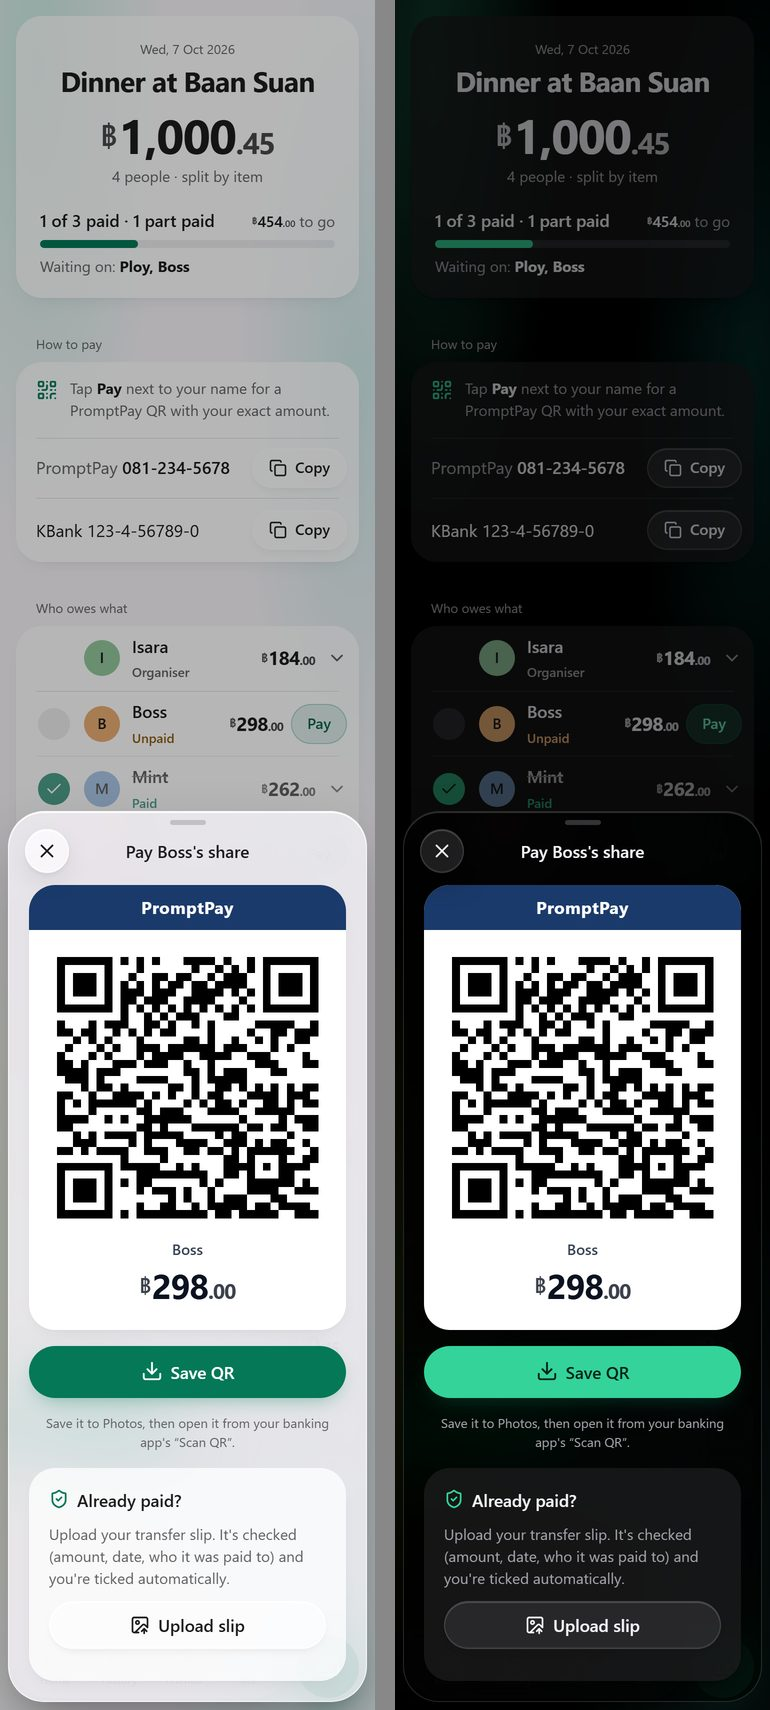
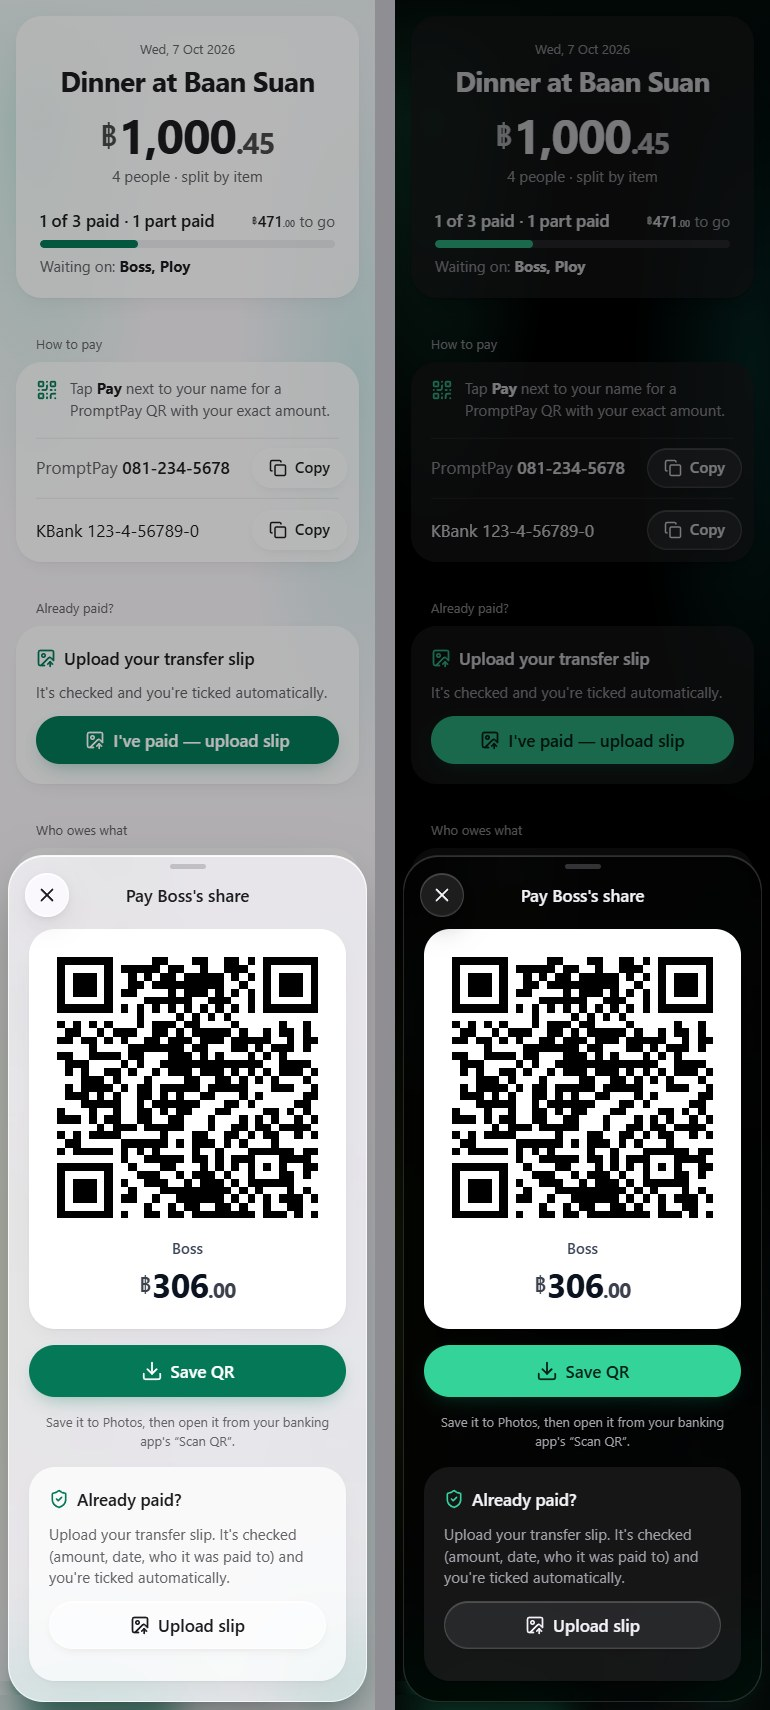
Docs: README and screenshots for the latest changes
- Logo and link-preview card in the README
- Leftover satang to friends, bill date, slip upload on the page, big bill
  names, rename reaching every bill
- New screenshots: shared bill, Pay sheet, big bill (light | dark)

diff --git a/README.md b/README.md
@@ -1,3 +1,5 @@
+<img src="docs/logo.png" alt="" width="72" align="right">
+
 # Bill Splitter
 
 Split a restaurant bill with friends in Thailand: scan the receipt, tick who had what, share one link, and see who has paid. PromptPay QR codes, transfer-slip checking, "big bills" for a whole night out, and an iOS-style "Liquid Glass" look in light and dark.
@@ -9,7 +11,9 @@ Split a restaurant bill with friends in Thailand: scan the receipt, tick who had
   <img src="docs/screenshots/9-shared.jpg" alt="Shared bill" width="380">
 </p>
 
-More screenshots (light | dark) in [`docs/screenshots`](docs/screenshots).
+More screenshots (light | dark) in [`docs/screenshots`](docs/screenshots). The link preview friends see in chat:
+
+<img src="docs/screenshots/share-preview.png" alt="Link preview card" width="600">
 
 ## Features
 
@@ -17,21 +21,22 @@ More screenshots (light | dark) in [`docs/screenshots`](docs/screenshots).
 - **Scan a receipt** (Thai or English) with Gemini: items, quantities, per-item discounts, receipt-wide discount, service charge, VAT, and the shop's name as the title. Service charge, VAT and any "rounding / ปัดเศษ" line are used exactly as printed, so the total matches the receipt. Warns when the items don't add up to the printed total.
 - **Split equally or by item.** Items can be shared unevenly ("Mint had 2 of the 3 beers") or split into separate lines ("2× Water" → two bottles shared by different people).
 - **Discount, service charge, VAT** (off by default), and **round to whole baht**: friends pay whole amounts and together never less than their exact shares, so the organiser never loses money. With "split equally", everyone's share is the same whole amount.
+- **Leftover satang go to friends:** when an amount doesn't divide evenly (฿50 / 3), the organiser gets the smaller part (฿16.66, friends ฿16.67). New splits only; older bills keep their amounts.
 - **Several payers:** a friend who paid part of the bill (e.g. the drinks) either settles with you (pays that much less, or gets money back), or everyone pays each payer directly: the app works out the fewest transfers ("Ploy → Mint ฿150"), each with the payer's own PromptPay QR, its own tick and slip check.
-- **Bill date** with the app's own calendar (defaults to today; a scanned receipt sets it).
+- **Bill date** with the app's own calendar: the day you make the split (scanning a receipt doesn't change it).
 - **Friends and groups** saved on the phone; "Who's eating with you?" and "Same as last time" pick them quickly.
 
 **Sharing and getting paid**
-- **One link per bill**, with a link preview (title, total, people) that refreshes when the bill is edited.
+- **One link per bill**, with a link preview (date, title, the total on a paper receipt, the people) that refreshes when the bill is edited. Tap a person to see what they had.
 - **PromptPay:** upload your bank's QR, or generate one from your PromptPay number with each person's exact amount. Bank details copy as just the account number.
-- **Big tick / small tick:** the organiser marks people paid in full, paid part (with the amount; "left to pay" shows what's still owed), or not paid. The organiser is never counted as unpaid.
-- **Transfer slips:** a friend uploads their slip; it's read with Gemini and checked (a transfer slip, dated on or after the bill, never used before; the receiver is matched by PromptPay number when the slip shows it) and they're ticked automatically, with a progress bar. The organiser can look over every slip.
-- **Big bills:** combine several bills from one outing (Food 1, Karaoke, Food 2) into one page with one total and one payment per friend. Payments are spread over the bills; single bills can still be ticked on their own.
+- **Big tick / small tick:** the organiser marks people paid in full, paid part (with the amount; "left to pay" shows what's still owed), or not paid; friends see the same ticks. The organiser is never counted as unpaid.
+- **Transfer slips:** "I've paid — upload slip" on the bill page (pick your name) or in the Pay sheet; the slip is read with Gemini and checked (a transfer slip, dated on or after the bill, never used before; the receiver is matched by PromptPay number when the slip shows it) and they're ticked automatically, with a progress bar. The organiser can look over every slip.
+- **Big bills:** combine several bills from one outing (Food 1, Karaoke, Food 2) into one page with one total and one payment per friend, named after its bills ("Food 1 & Karaoke") unless you give it a title. Payments are spread over the bills; single bills can still be ticked on their own.
 - **Receipt photo** on the shared page (zoomable).
 
 **History and the phone**
 - **History**, newest bill date first, with big bills holding their bills; tap a person to see their splits and what they owe you (or you owe them). Tap yourself to see what you spent.
-- **Friends** page: tap a friend to see their splits. Renaming a friend (or yourself) updates the bills you've shared.
+- **Friends** page: tap a friend to see their splits. Renaming a friend (or yourself) updates every bill you've shared, old ones too (friends typed into older bills are found by name).
 - **Backup and restore** (Me page) to move splits, friends and edit rights to a new phone.
 
 ## Tech
@@ -72,7 +77,7 @@ node scripts/smoke-prod.mts https://billsplitter-th.vercel.app [receipt.jpg]    
 ## How it works
 
 - **Several payers** — `src/lib/settle.ts`: what each person paid at the table minus their share, then the fewest transfers (largest debts to largest credits). Transfer payments are recorded under `t:{from}:{to}` keys; History and big bills use each friend's money with the organiser.
-- **Maths** — `src/lib/calc.ts`, pure and integer-only (satang). Items → discount → service charge on the discounted subtotal → VAT on (subtotal + service). Shares use largest-remainder allocation, so everyone's amounts always add up exactly; uneven shares are weights on the same allocation. Rounding, paid-upfront and the organiser's share are applied on top, never letting the organiser lose money.
+- **Maths** — `src/lib/calc.ts`, pure and integer-only (satang). Items → discount → service charge on the discounted subtotal → VAT on (subtotal + service). Shares use largest-remainder allocation, so everyone's amounts always add up exactly (in new splits the leftover units go to the friends, never the organiser); uneven shares are weights on the same allocation. Rounding, paid-upfront and the organiser's share are applied on top, never letting the organiser lose money.
 - **Scanning** — the phone fixes the photo's rotation and sends a ~2048 px JPEG to `POST /api/scan`. `src/lib/server/gemini.ts` races a chain of Gemini models (best first: 3.8 Flash, 3.7 Flash, 3.6 Flash, 3.5 Flash, 3.5 Flash-Lite, 3.1 Flash-Lite): the two best start together, others join when one fails or is slow, the first good answer wins. Busy, out-of-quota or timed-out models cool down (shared via Redis). Strict JSON schema, temperature 0, lowest thinking level. Results go through `src/lib/scanFilter.ts` and `applyScan`. See [`docs/scan-reliability.md`](docs/scan-reliability.md).
 - **Sharing** — `POST /api/splits` → `{ id, token }`; only a SHA-256 of the edit token is stored. Splits live 90 days after the last activity. `/api/splits/{id}/paid` records payments (full, part or none; organiser only). Shared links carry `?v=` so chat apps refresh their preview after an edit; preview images come from `/api/og/s|e/{id}`.
 - **Slips** — `POST /api/splits/{id}/slip` (and `/api/events/{id}/slip`): read with Gemini, checked by `src/lib/slip.ts`, each slip reference can be used once.
